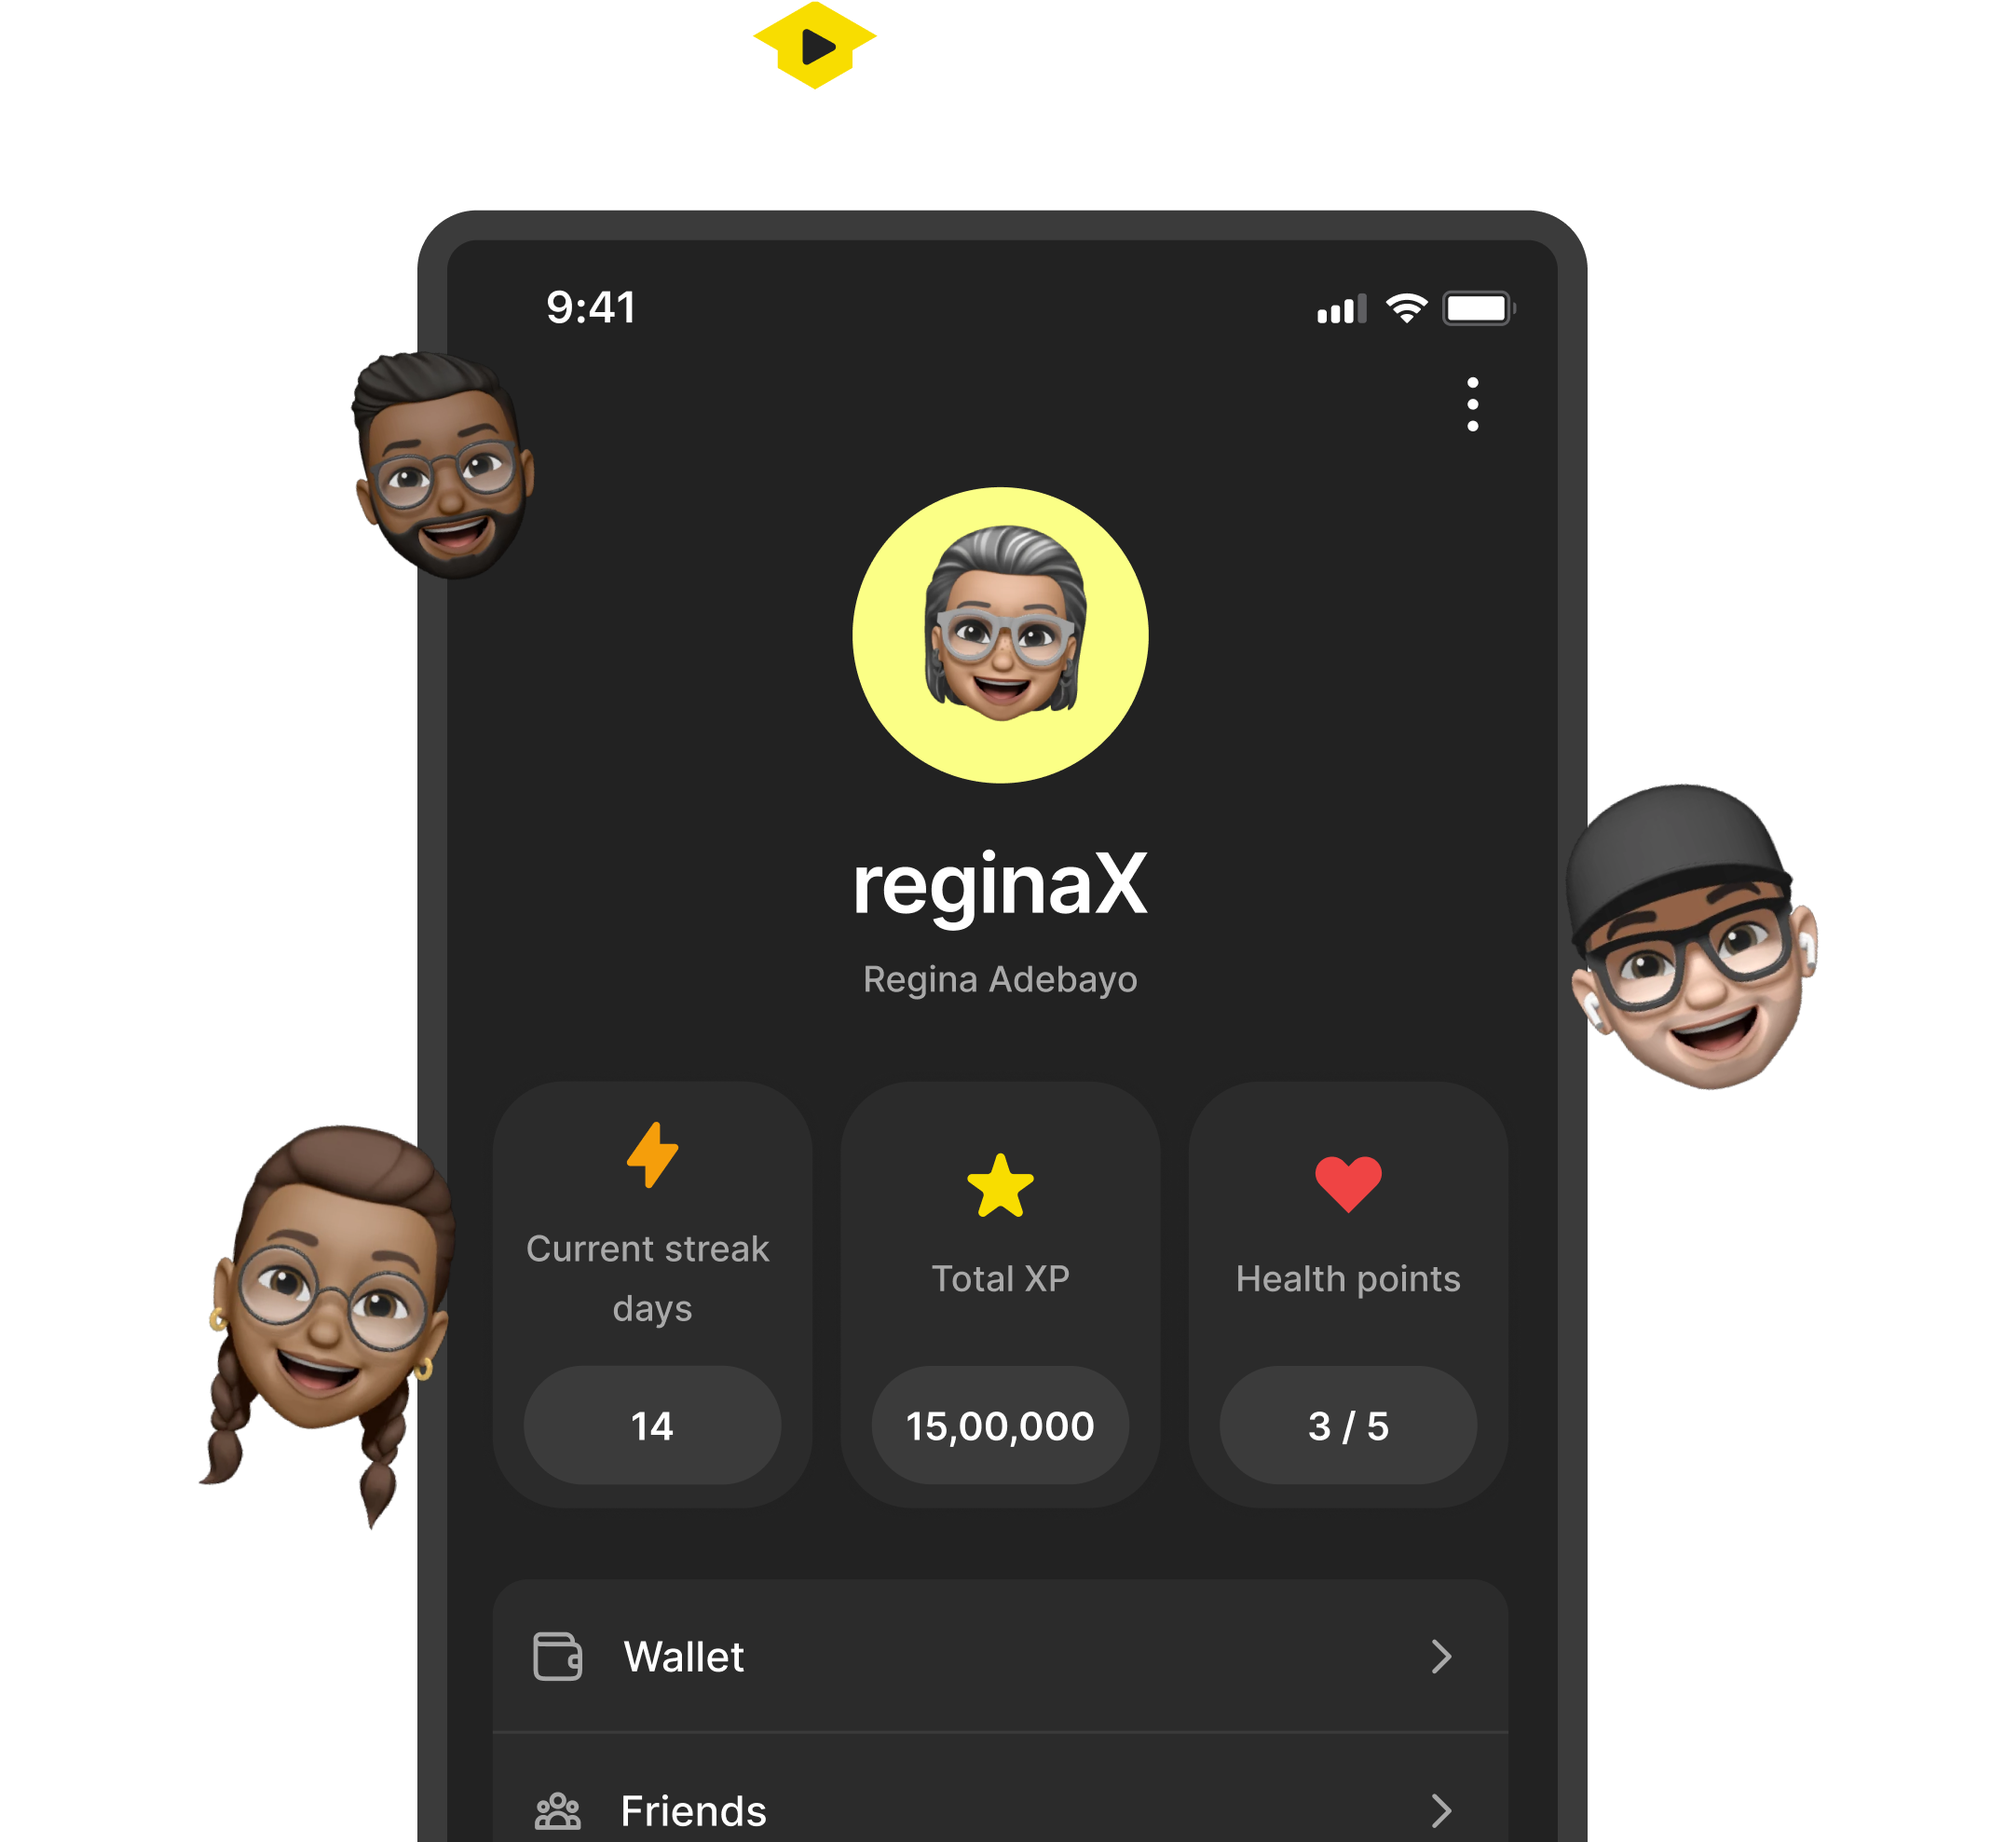
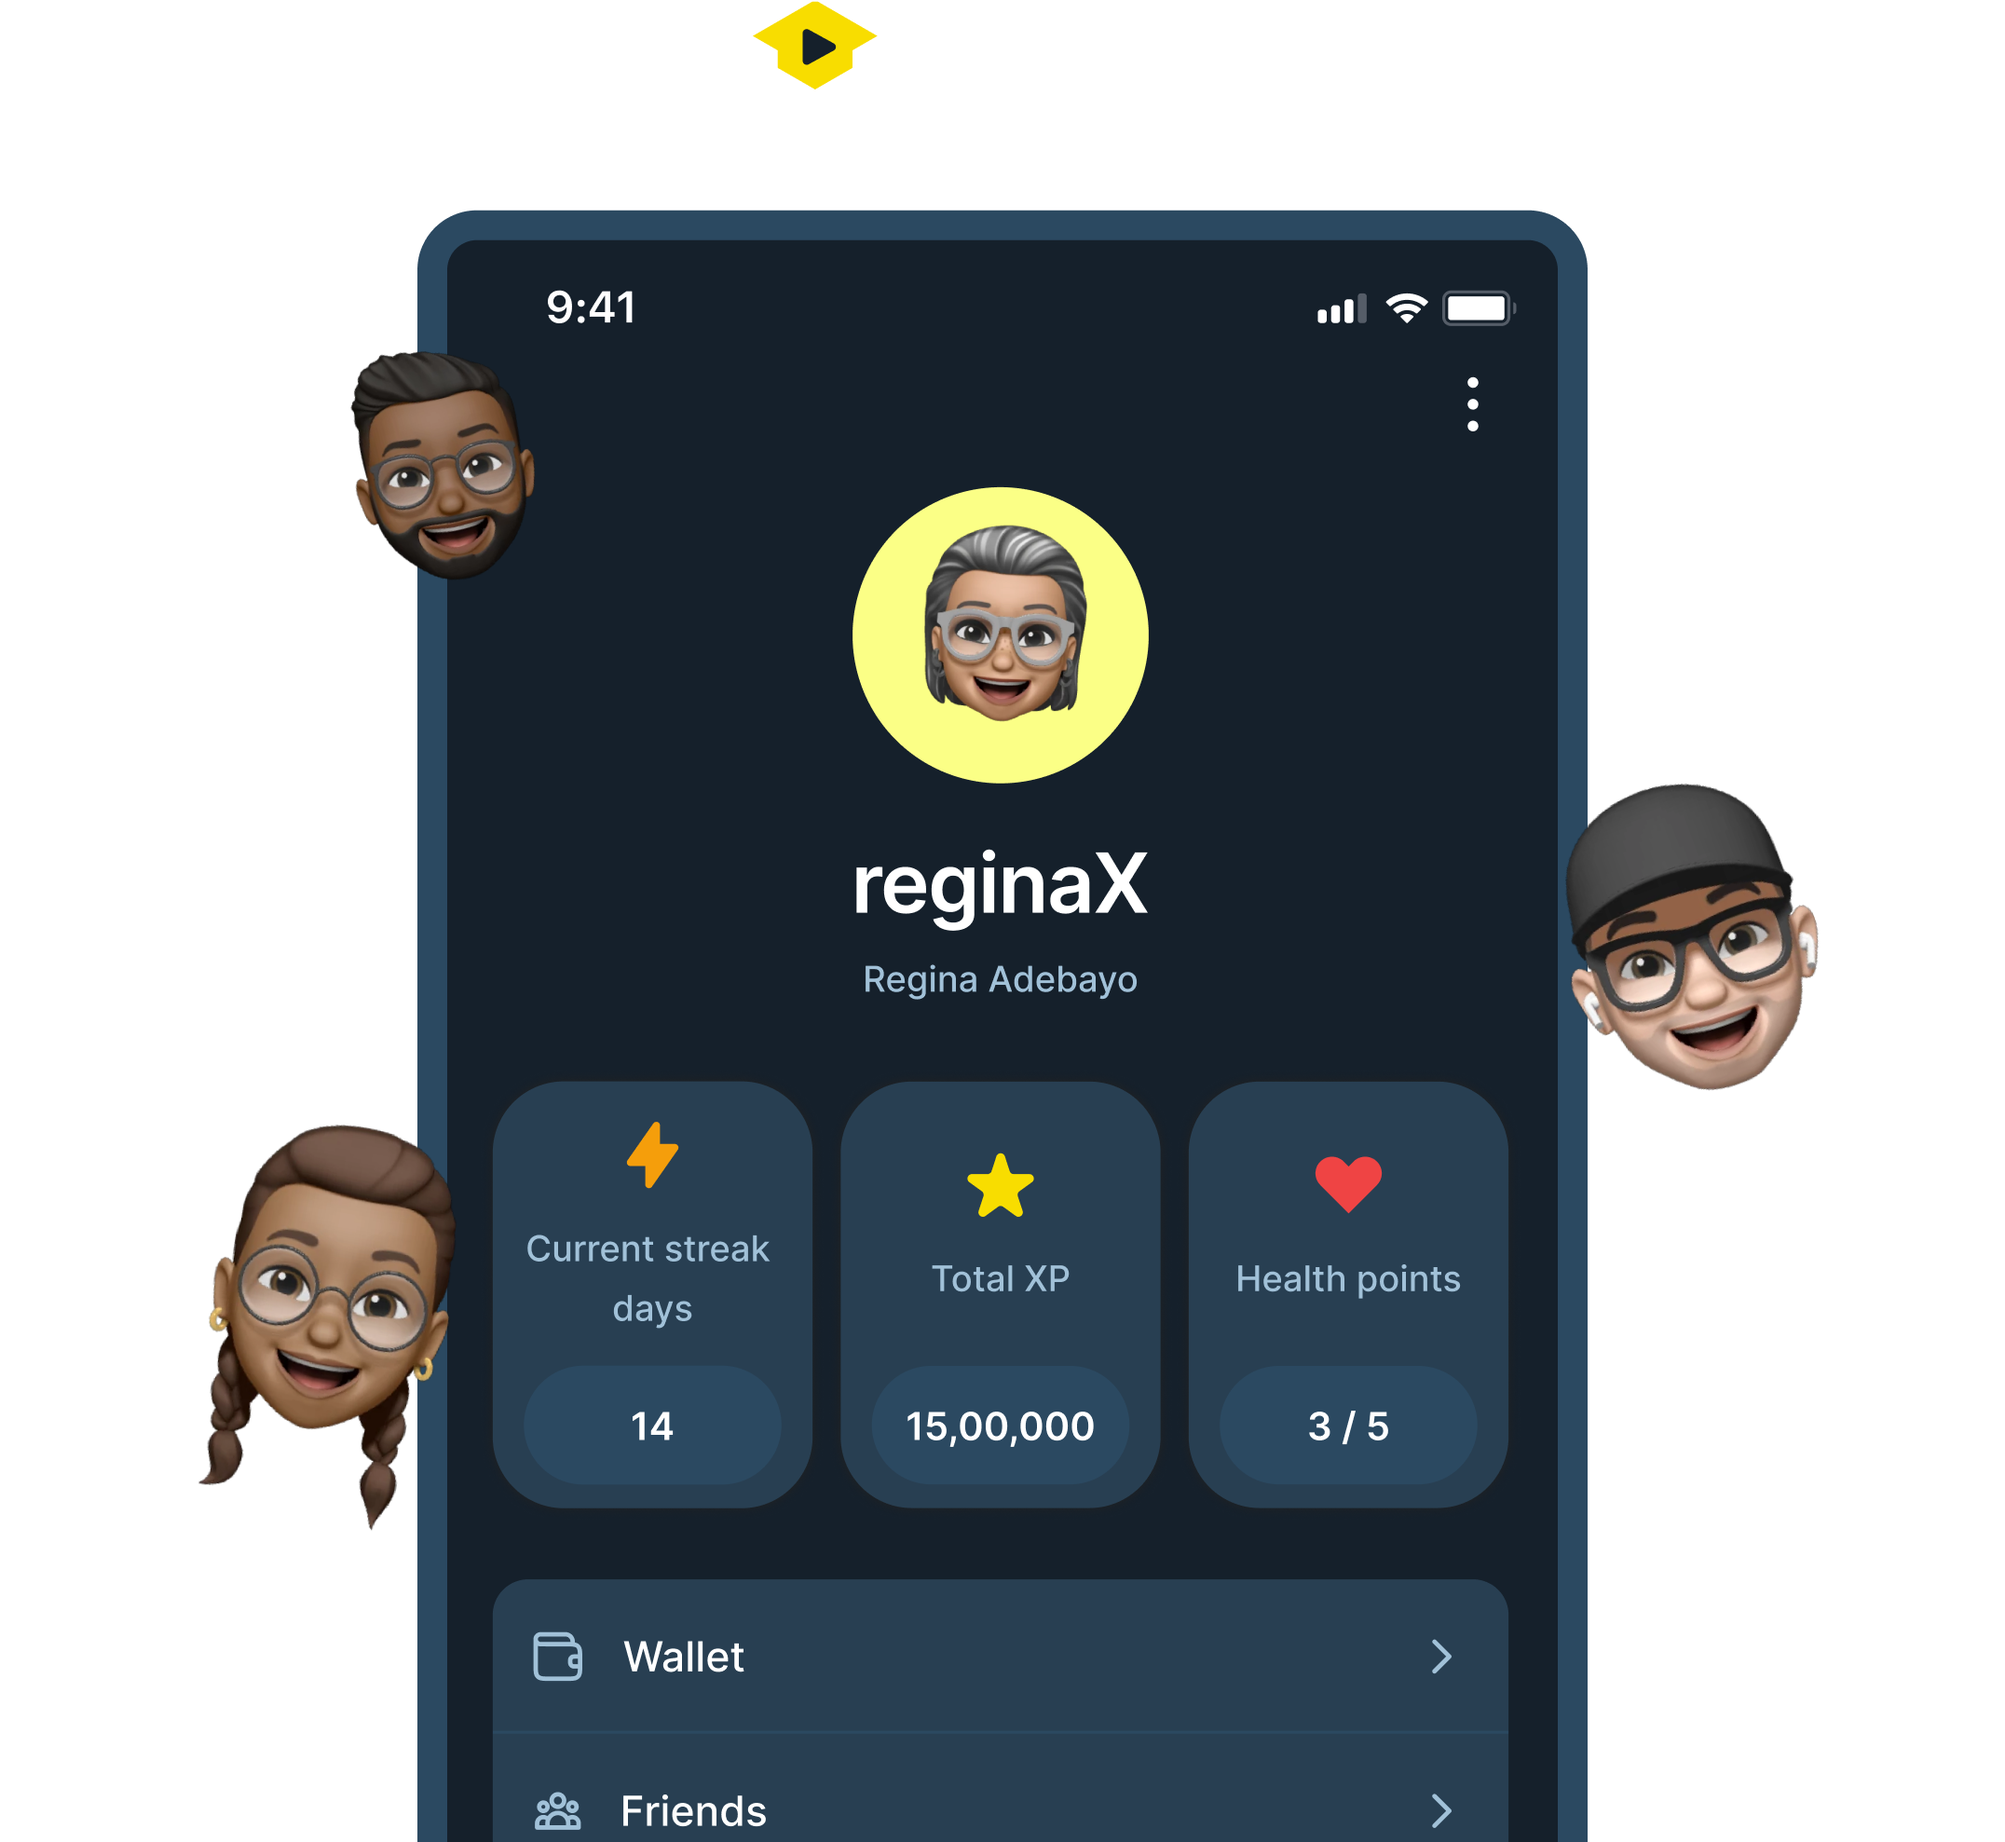
Change the theme color to bluesh color

Changed region(s): [[0.1868, 0.0926, 0.8095, 1.0], [0.4359, 0.5245, 0.5604, 0.5554]]

diff --git a/src/components/screenshort/Screenshort.css b/src/components/screenshort/Screenshort.css
@@ -1,5 +1,5 @@
 .screenshort-container {
-    background: #2B2B2B;
+    background: #15202B;
     display: flex;
     justify-content: center;
     align-items: center;
@@ -9,41 +9,22 @@
 
 /* Default phone styling */
 .screenshort-phone {
-    width: 250px;
+    width: 100%;
     height: auto;
-    position: absolute;
-    transition: transform 0.5s ease-in-out;
 }
 
-/* Left phone with higher z-index */
-.left-phone {
-    transform: rotate(-25deg) translateX(-100px);
-    z-index: 2;
-}
 
-/* Right phone */
-.right-phone {
-    transform: rotate(25deg) translateX(100px);
-    z-index: 1;
-}
 
-/* Hover effect: Rotate phones back to normal */
-.screenshort-phone:hover {
-    transform: rotate(0deg) translateX(0px);
-    z-index: 3;
-}
 
 /* ✅ RESPONSIVE ADJUSTMENTS */
 @media (max-width: 768px) {
     /* Reduce phone size for tablets & small screens */
-    .screenshort-phone {
-        width: 180px;
-    }
-    .left-phone {
-        transform: rotate(-20deg) translateX(-70px);
-    }
-    .right-phone {
-        transform: rotate(20deg) translateX(70px);
+    .screenshort-container {
+        flex-direction: column;
+        max-width: 100vw;
+        overflow-x: hidden;
+            padding: 20px;
+
     }
 }
 
@@ -53,17 +34,8 @@
         flex-direction: column;
         max-width: 100vw;
         overflow-x: hidden;
+            padding: 20px;
+
     }
 
-    .screenshort-phone {
-        width: 150px;
-    }
-
-    .left-phone {
-        transform: rotate(-15deg) translateX(-50px);
-    }
-
-    .right-phone {
-        transform: rotate(15deg) translateX(50px);
-    }
 }

diff --git a/src/components/about/About.css b/src/components/about/About.css
@@ -1,7 +1,6 @@
 .about-wrapper {
-  text-align: center;
   padding: 40px 20px;
-  background: #222;
+  background: #15202B;
   display: flex;
   flex-direction: column;
   align-items: center;
@@ -14,7 +13,6 @@
   font-family: "Inter", sans-serif;
   margin-top: 16px;
   margin-bottom: 60px;
-  text-align: center;
   max-width: 600px;
 }
 
@@ -44,7 +42,7 @@
 /* Text */
 .about-text {
   font-size: clamp(14px, 2.5vw, 18px);
-  color: #A8A8A8;
+  color: #A1C1D8;
   font-family: "Inter", sans-serif;
   max-width: 480px;
   margin: 0;
@@ -53,16 +51,14 @@
 
 /* Images */
 .about-logo {
-  width: 100%;
-  max-width: 480px;
-  height: auto;
+  min-width: 612px;
   object-fit: contain;
   flex-shrink: 0;
 }
 
 .universe-image {
   width: 100%;
-  max-width: 100px;
+  max-width: 120px;
   height: auto;
   margin-bottom: 20px;
 }
@@ -91,7 +87,7 @@
   }
 
   .about-logo {
-    max-width: 320px;
+    max-width: 100%;
   }
 
   .about-text {
@@ -113,7 +109,7 @@
   }
 
   .about-logo {
-    max-width: 260px;
+    max-width: 100%;
   }
 
   .about-text,

diff --git a/src/components/footer/Footer.css b/src/components/footer/Footer.css
@@ -1,5 +1,5 @@
 .footer-container {
-    background: #2B2B2B;
+    background: #15202B;
     color: #fff;
     padding: 40px 24px;
     text-align: center;
@@ -26,7 +26,7 @@
 
 .footer-text {
     font-size: 16px;
-    color: #A8A8A8;
+    color: #A1C1D8;
     font-family: "Inter", sans-serif;
     margin-top: 20px;
     margin-bottom: 32px;
@@ -59,7 +59,7 @@
 
 .footer-contact-container {
     padding: 40px 24px;
-    background-color: #3B3B3B;
+    background-color: #2B4961;
     border-radius: 12px;
     display: flex;
     flex-direction: column;
@@ -85,7 +85,7 @@
 }
 
 .social-links a {
-    color: #808080;
+    color: #6FA0C1;
     margin: 0 10px;
     font-size: 24px;
     transition: transform 0.3s ease, color 0.3s ease;
@@ -104,7 +104,7 @@
 }
 
 .copyright-text {
-    color: #A8A8A8;
+    color: #A1C1D8;
     font-size: 14px;
     font-family: "Inter", sans-serif;
 }

diff --git a/src/components/hero/Hero.css b/src/components/hero/Hero.css
@@ -4,7 +4,7 @@
   align-items: center;
   justify-content: center;
   min-height: 100vh;
-  background-color: #222;
+  background-color: #15202B;
   padding: 60px 20px 40px;
   text-align: center;
   box-sizing: border-box;
@@ -25,7 +25,7 @@
 
 .heroSubtitle {
   font-size: clamp(16px, 2.5vw, 20px);
-  color: #a8a8a8;
+  color: #A1C1D8;
   font-family: "Inter", sans-serif;
   font-weight: 500;
   margin-bottom: 32px;
@@ -48,8 +48,7 @@
 }
 
 .heroImage {
-  width: 100%;
-  max-width: 500px;
+  max-width: 60%;
   animation: floating 3s ease-in-out infinite;
   filter: drop-shadow(0px 10px 20px rgba(0, 0, 0, 0.25));
 }

diff --git a/src/components/screenshort/Screenshort.tsx b/src/components/screenshort/Screenshort.tsx
@@ -1,6 +1,7 @@
 import { useEffect, useRef } from "react";
 import { gsap } from "gsap";
 import { ScrollTrigger } from "gsap/ScrollTrigger";
+import premium from "../../assets/premium.png"
 
 import "./Screenshort.css";
 
@@ -47,8 +48,8 @@ function Screenshort() {
 
   return (
     <div ref={containerRef} className="screenshort-container">
-      {/* <img ref={leftPhoneRef} src={Home} className="screenshort-phone left-phone" />
-      <img ref={rightPhoneRef} src={Profile} className="screenshort-phone right-phone" /> */}
+<img ref={leftPhoneRef} src={premium} className="screenshort-phone" />
+
     </div>
   );
 }

diff --git a/src/components/value/Value.css b/src/components/value/Value.css
@@ -1,7 +1,7 @@
 
 .value-wrapper {
   min-height: 100vh;
-  background: #222;
+  background: #15202B;
   padding: 50px 5%;
   text-align: center;
   overflow-x: hidden;
@@ -25,7 +25,7 @@
 }
 
 .cardWrapper {
-  background: #2b2b2b;
+  background: #283F52;
   padding: 60px 40px;
   border-radius: 16px;
   width: 100%;
@@ -74,7 +74,7 @@
 }
 
 .cardWrapper .card-text {
-  color: #A8A8A8;
+  color: #A1C1D8;
   font-size: 16px;
   line-height: 1.6;
   margin: 0;
@@ -106,7 +106,7 @@
   font-size: 14px;
   margin: 0;
   color: #000;
-  font-weight: 500;
+  font-weight: 600;
 }
 
 /* Responsive Styles */

diff --git a/src/components/header/header.css b/src/components/header/header.css
@@ -1,5 +1,5 @@
 .header {
-  background: #222;
+  background: #15202B;
   display: flex;
   align-items: center;
   justify-content: space-between;
